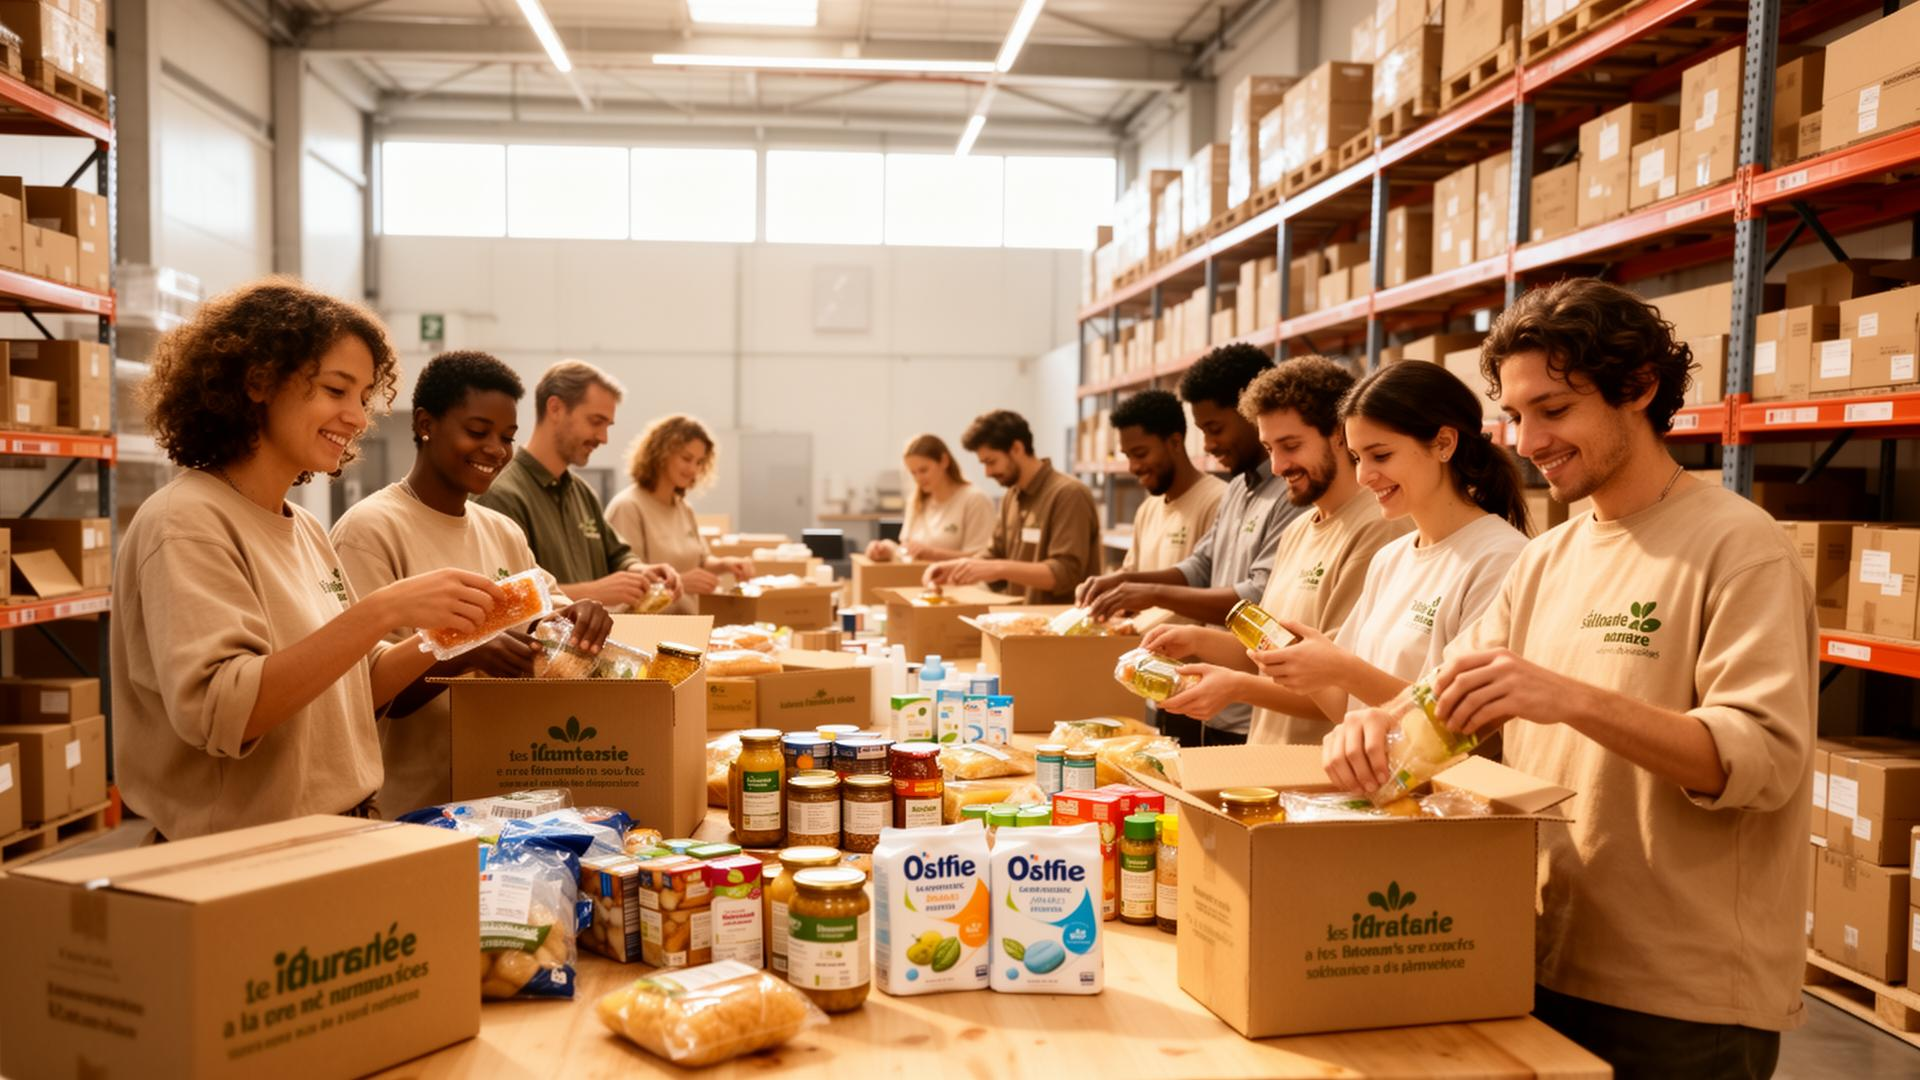
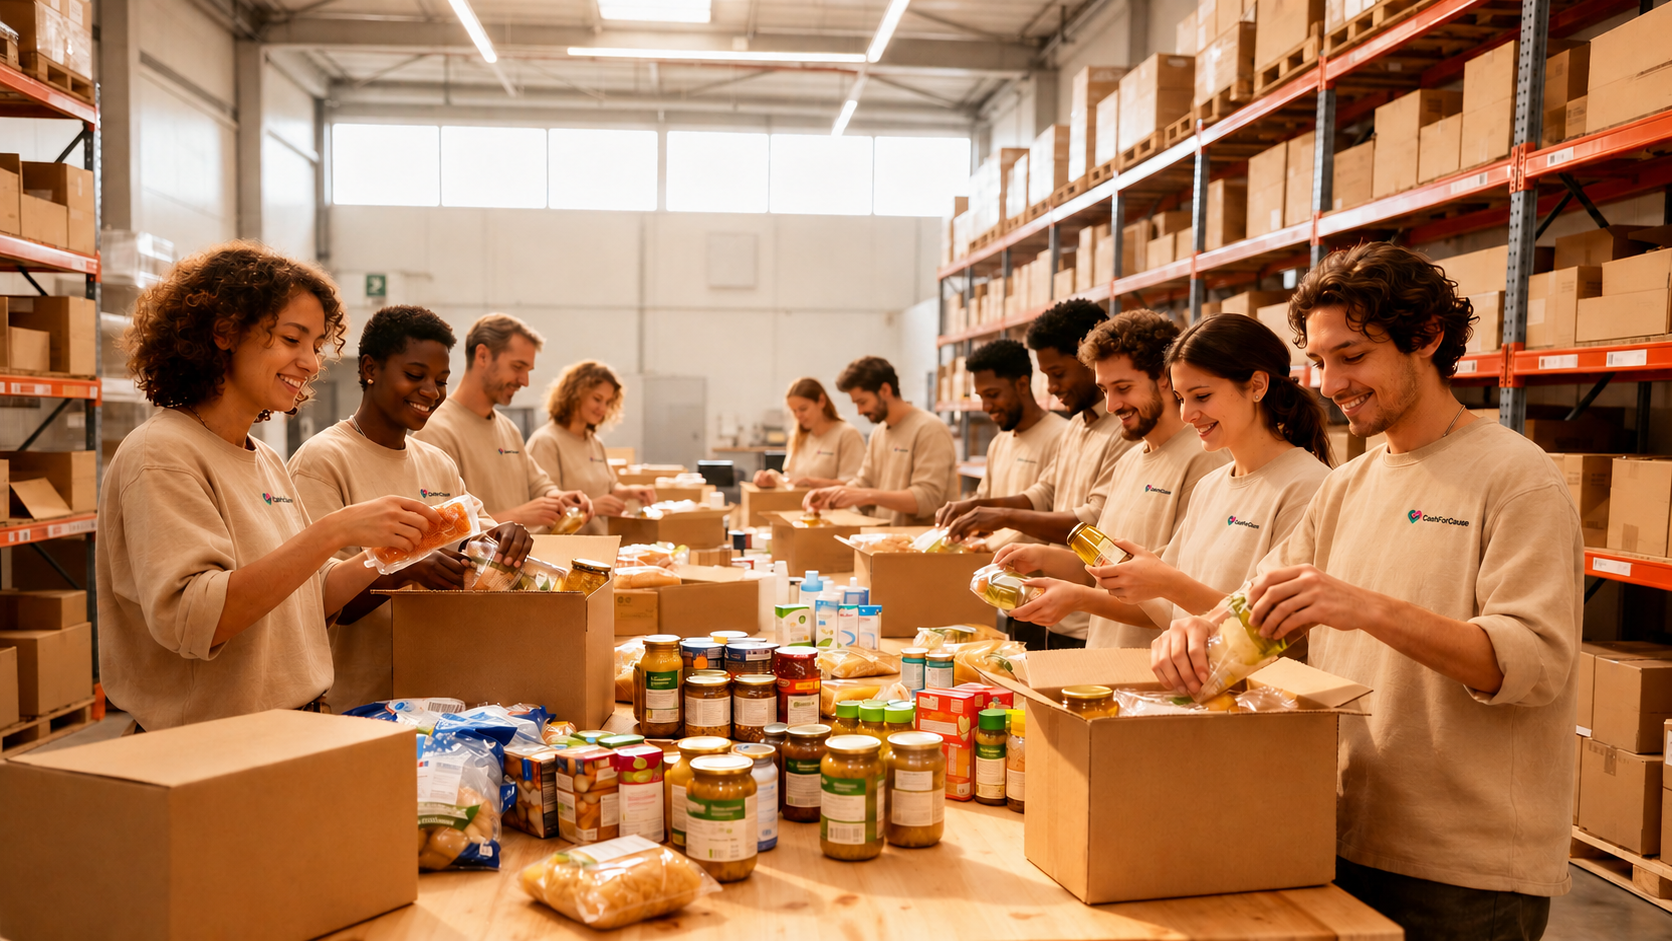
Changes

diff --git a/.lovable/plan.md b/.lovable/plan.md
@@ -1,13 +1,8 @@
-
-
-# Bouton "Aider quelqu'un d'autre" — Accent ambre/or + HeartHandshake
+# Remplacer la photo du hero
 
 ## Modification
 
-### `src/components/PostDonSocialBlock.tsx`
-- Importer `HeartHandshake` depuis `lucide-react`
-- Remplacer le `<Button variant="outline">` par `<Button className="bg-accent text-accent-foreground hover:bg-accent/90">`
-- Ajouter `<HeartHandshake className="h-4 w-4 mr-2" />` avant le texte
+1. Copier `user-uploads://ChatGPT_Image_21_mai_2026_15_22_44.png` vers `src/assets/hero-solidarity.jpg` (en .jpg optimisé ou .png) — ou remplacer `public/hero-solidarity.jpg`.
+2. Mettre à jour `src/pages/Index.tsx` si besoin pour pointer vers le nouveau fichier (et adapter le `alt` : bénévoles CashForCause préparant des colis solidaires dans un entrepôt).
 
-1 fichier modifié.
-
+1 fichier image remplacé, éventuellement 1 ligne modifiée dans Index.tsx.
